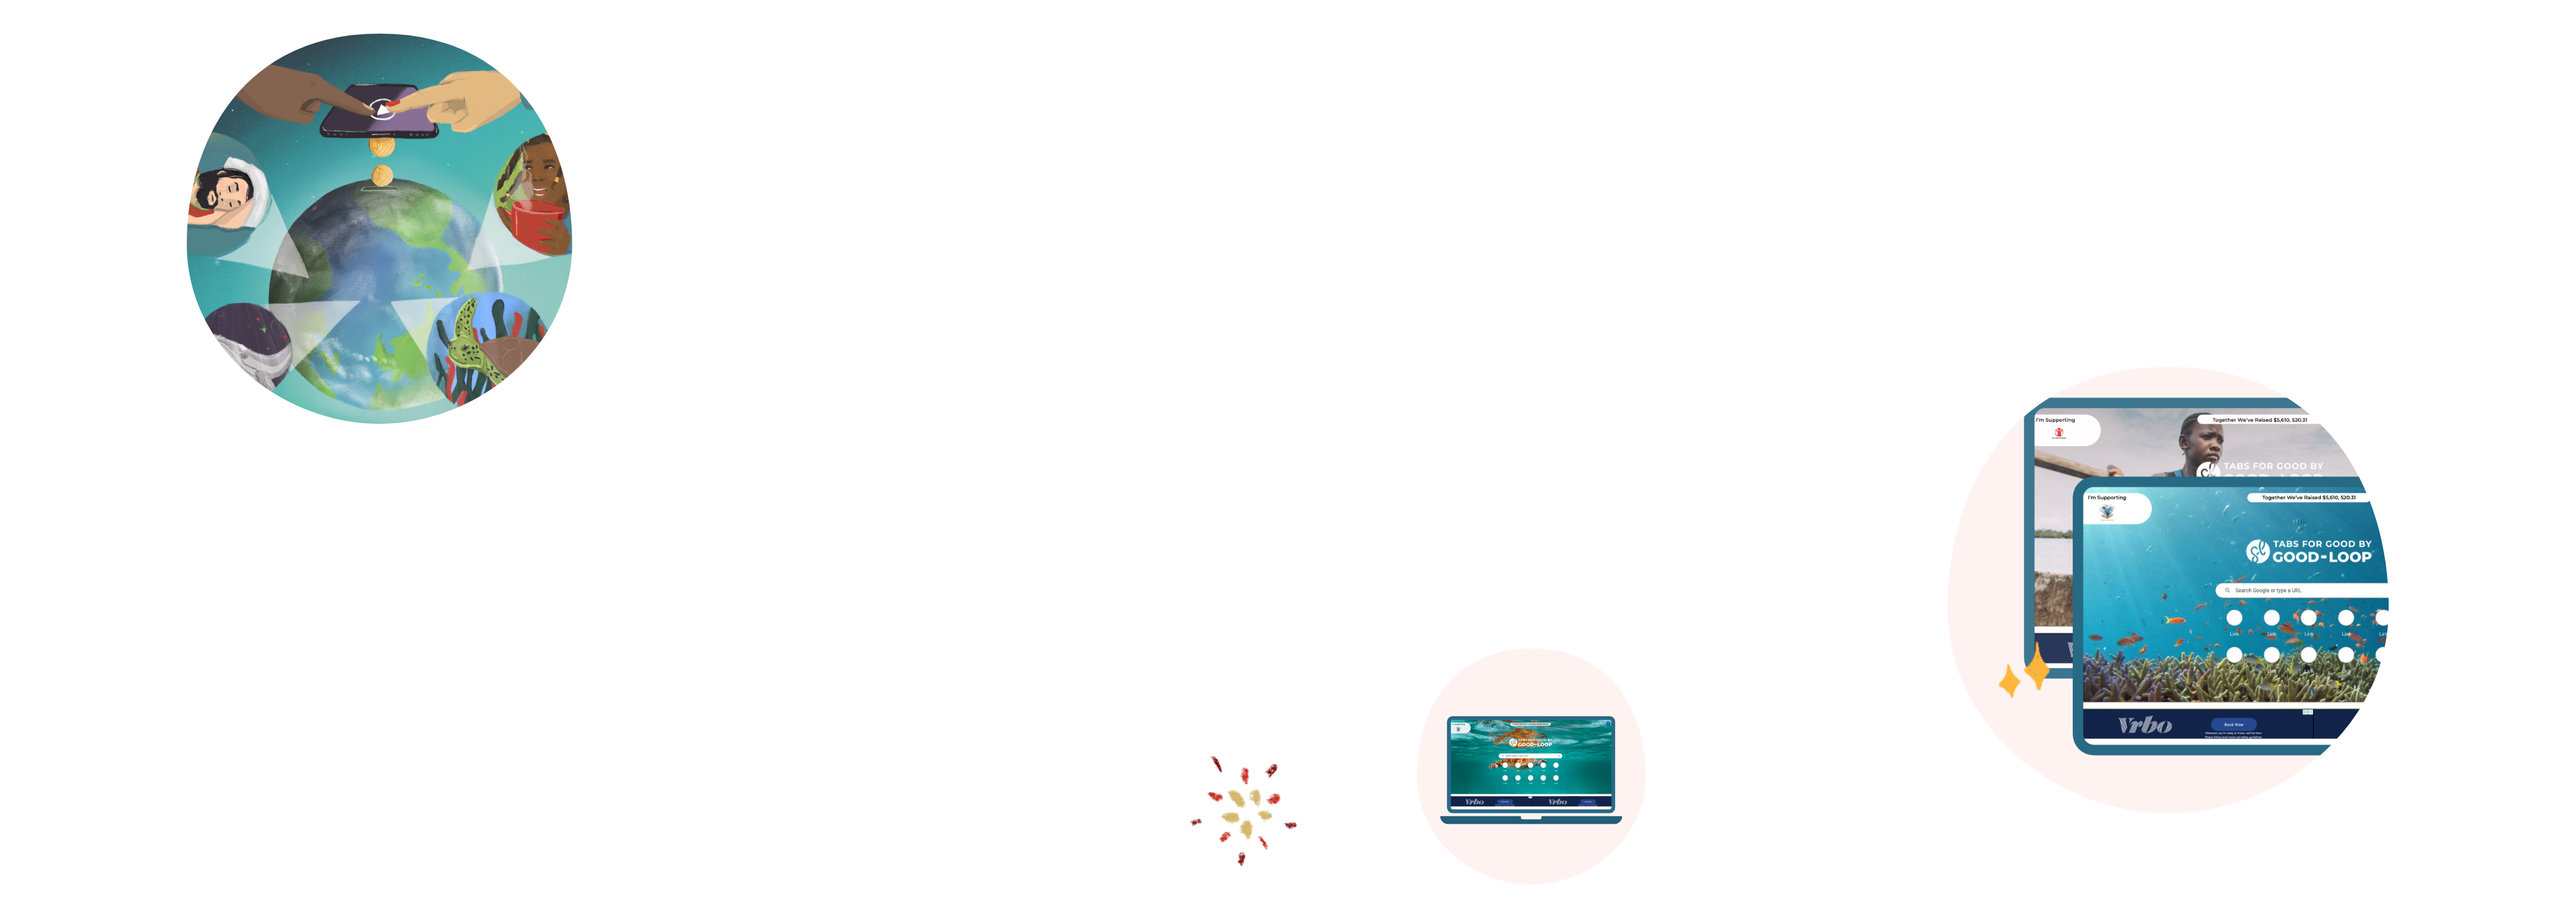
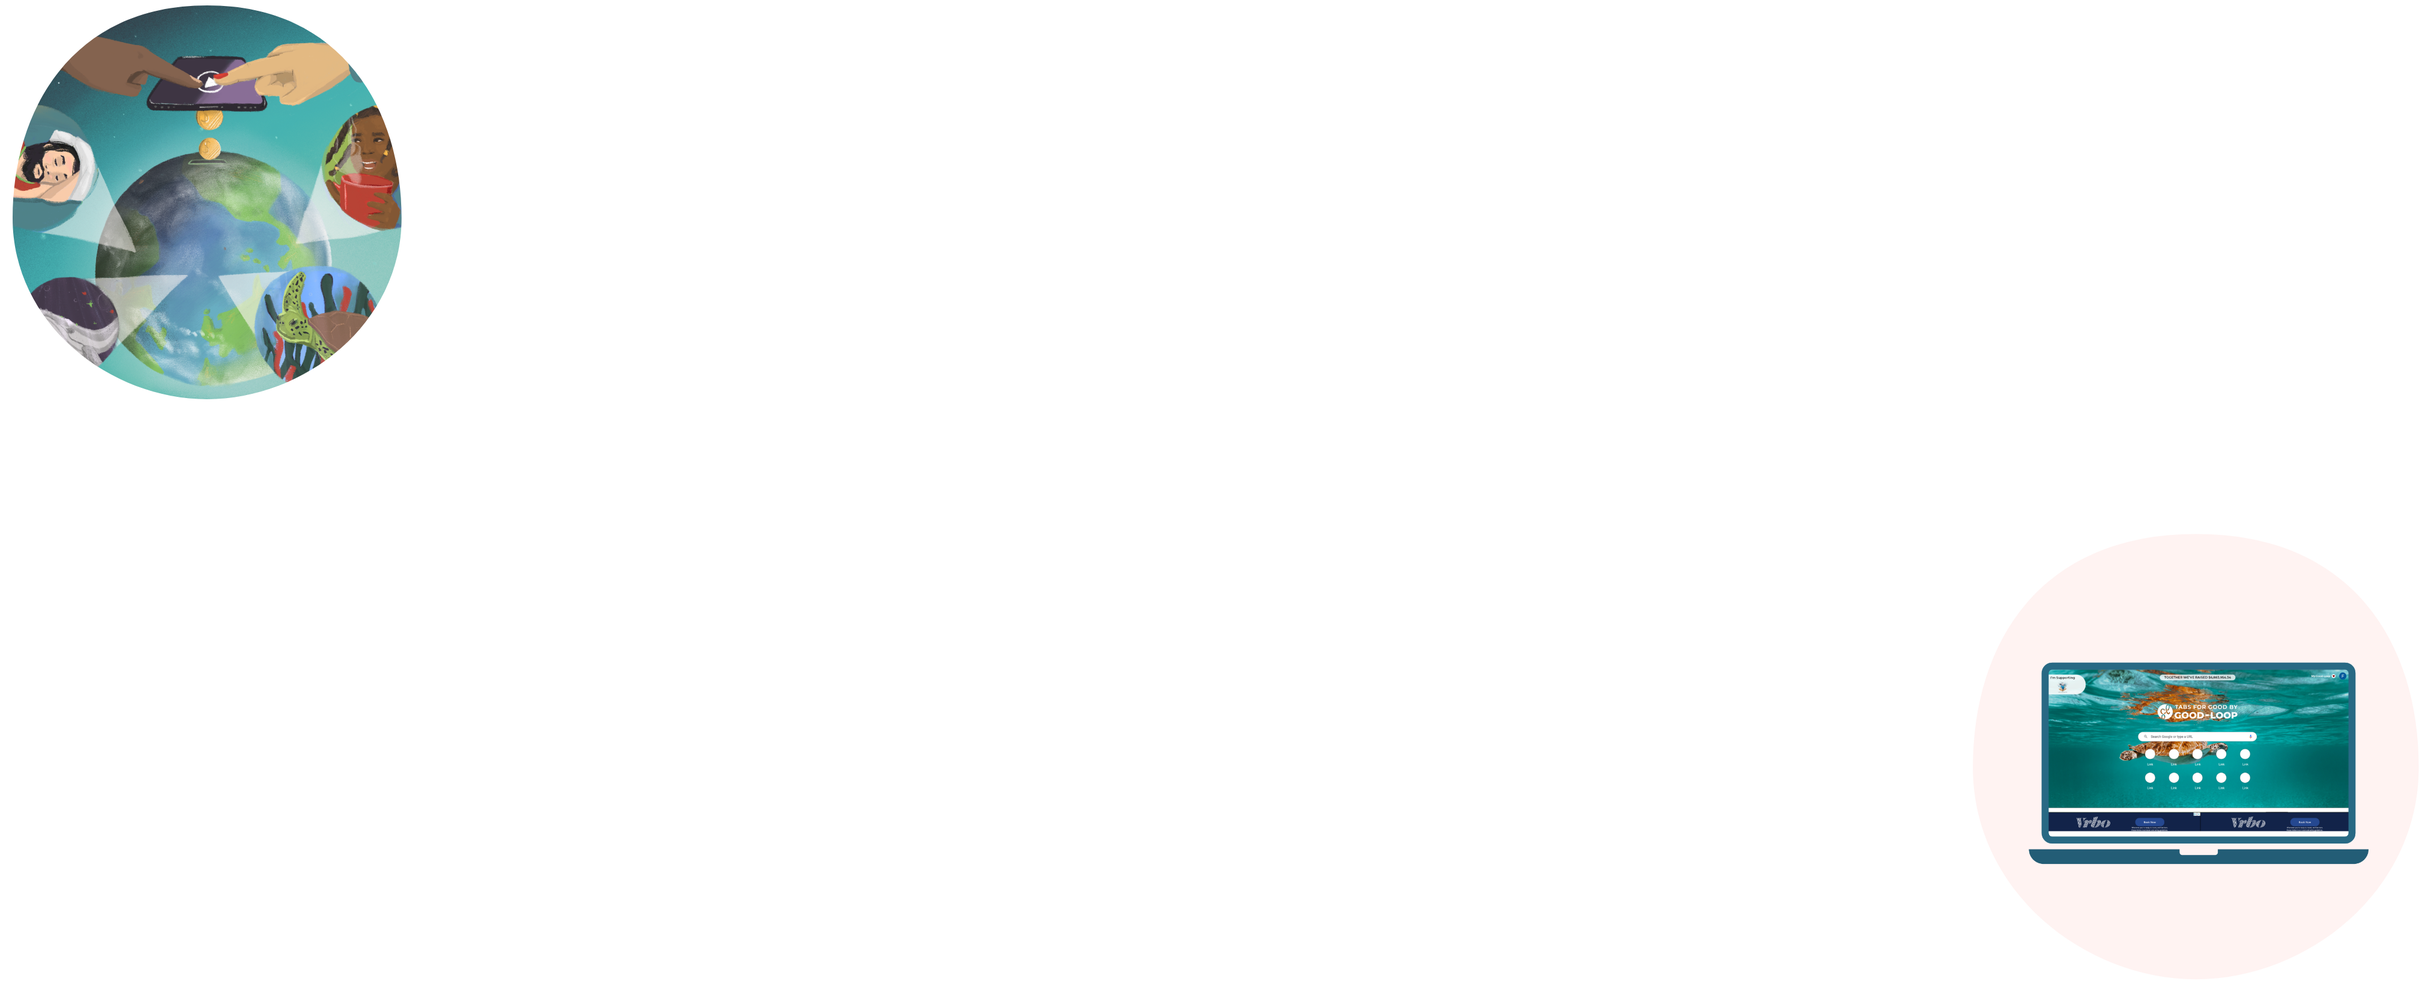
added welcome page content

diff --git a/src/js/components/pages/Welcome.jsx b/src/js/components/pages/Welcome.jsx
@@ -21,7 +21,7 @@ const WelcomePage = () => {
 	return (<>
 		<Container className='container'>
 			<div className='content-col' style={{ alignContent: 'center' }}>
-				<WhiteCircle width={"8%"} className="gl-logo-circle">
+				<WhiteCircle width={"7.5%"} className="gl-logo-circle">
 					<img className='gl-logo' src='/img/TabsForGood/WelcomePage/my_good-loop_Colour_RoundLogo.svg' alt='good-loop logo' />
 				</WhiteCircle>
 				<WhiteCircle width={"60%"} className="middle-circle">

diff --git a/src/style/WelcomePage.less b/src/style/WelcomePage.less
@@ -21,6 +21,7 @@ body {
 	position: absolute !important;
 	left: 32.5%;
 	top: 12.5%;
+	width: 100%;
 	z-index: 2;
 	.gl-logo {
 		width:150%;
@@ -63,7 +64,7 @@ body {
 
 .overlay {
 	position: absolute;
-	width: 100%;
-	bottom: 5%;
-	left: 1.5%;
+	width: 80%;
+	bottom: 10%;
+	left: 10%;
 }
